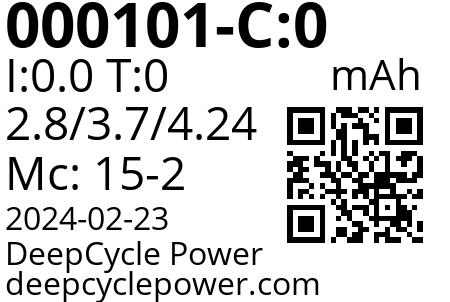
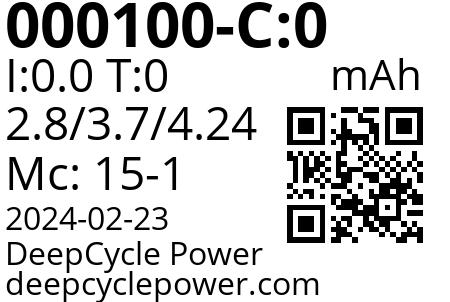
Fixed the label size not being loaded into the devices page

Changed region(s): [[0.6222, 0.3278, 0.9644, 0.8046], [0.4044, 0.0, 0.4978, 0.1788], [0.3422, 0.5066, 0.4044, 0.6258]]

diff --git a/templates/megacellcnc/device-slots.html b/templates/megacellcnc/device-slots.html
@@ -42,6 +42,8 @@
 <!--Hidden inputs for printing-->
     <input type="hidden" id="connectionHost" value="localhost" />
     <input type="hidden" id="doubleLabel" value="0" />
+    <input type="hidden" id="pxlWidth" value="0" />
+    <input type="hidden" id="pxlHeight" value="0" />
 
 
     <div id="deviceInfo" data-device-id="{{ device.id }}" data-slot-count="{{ slots|length }}"></div>

diff --git a/README.md b/README.md
@@ -72,3 +72,12 @@ sudo docker-compose up --build
 sudo docker exec megacnc_web_1 python manage.py makemigrations
 sudo docker exec megacnc_web_1 python manage.py migrate
 ```
+
+
+# Support and donations are welcome
+
+### Stripe:
+https://buy.stripe.com/8wMdUmaZ00mc67m4gk
+
+### Paypal:
+https://www.paypal.com/donate/?hosted_button_id=B8Z5L9NE86KLC
